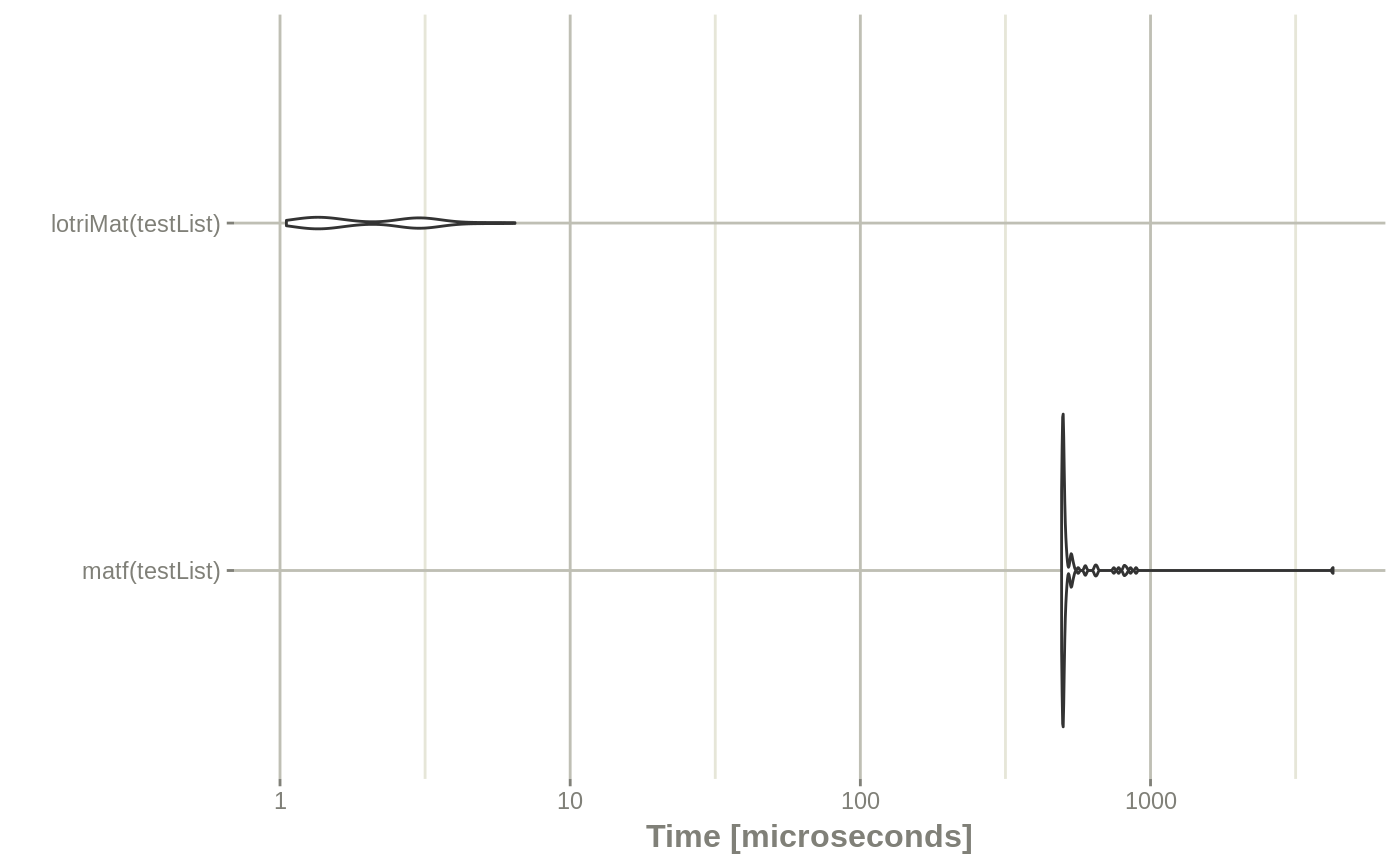
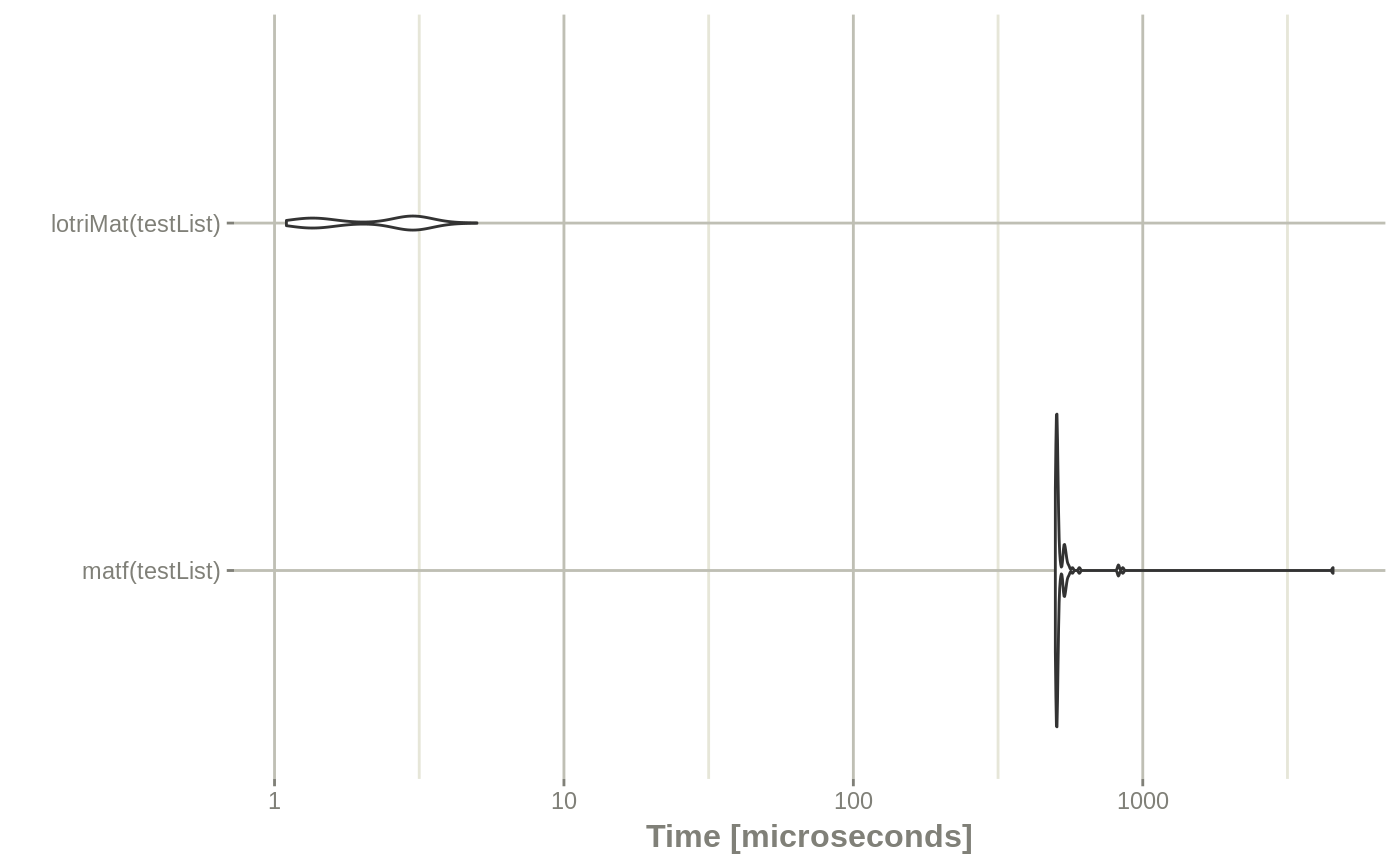
Update pkgdown website

diff --git a/docs/reference/lotriSep.html b/docs/reference/lotriSep.html
@@ -1,0 +1,244 @@
+<!-- Generated by pkgdown: do not edit by hand -->
+<!DOCTYPE html>
+<html lang="en">
+  <head>
+  <meta charset="utf-8">
+<meta http-equiv="X-UA-Compatible" content="IE=edge">
+<meta name="viewport" content="width=device-width, initial-scale=1.0">
+
+<title>Separate a lotri matrix into above and below lotri matrices — lotriSep • lotri</title>
+
+
+<!-- jquery -->
+<script src="https://cdnjs.cloudflare.com/ajax/libs/jquery/3.4.1/jquery.min.js" integrity="sha256-CSXorXvZcTkaix6Yvo6HppcZGetbYMGWSFlBw8HfCJo=" crossorigin="anonymous"></script>
+<!-- Bootstrap -->
+
+<link rel="stylesheet" href="https://cdnjs.cloudflare.com/ajax/libs/twitter-bootstrap/3.4.1/css/bootstrap.min.css" integrity="sha256-bZLfwXAP04zRMK2BjiO8iu9pf4FbLqX6zitd+tIvLhE=" crossorigin="anonymous" />
+
+<script src="https://cdnjs.cloudflare.com/ajax/libs/twitter-bootstrap/3.4.1/js/bootstrap.min.js" integrity="sha256-nuL8/2cJ5NDSSwnKD8VqreErSWHtnEP9E7AySL+1ev4=" crossorigin="anonymous"></script>
+
+<!-- bootstrap-toc -->
+<link rel="stylesheet" href="../bootstrap-toc.css">
+<script src="../bootstrap-toc.js"></script>
+
+<!-- Font Awesome icons -->
+<link rel="stylesheet" href="https://cdnjs.cloudflare.com/ajax/libs/font-awesome/5.12.1/css/all.min.css" integrity="sha256-mmgLkCYLUQbXn0B1SRqzHar6dCnv9oZFPEC1g1cwlkk=" crossorigin="anonymous" />
+<link rel="stylesheet" href="https://cdnjs.cloudflare.com/ajax/libs/font-awesome/5.12.1/css/v4-shims.min.css" integrity="sha256-wZjR52fzng1pJHwx4aV2AO3yyTOXrcDW7jBpJtTwVxw=" crossorigin="anonymous" />
+
+<!-- clipboard.js -->
+<script src="https://cdnjs.cloudflare.com/ajax/libs/clipboard.js/2.0.6/clipboard.min.js" integrity="sha256-inc5kl9MA1hkeYUt+EC3BhlIgyp/2jDIyBLS6k3UxPI=" crossorigin="anonymous"></script>
+
+<!-- headroom.js -->
+<script src="https://cdnjs.cloudflare.com/ajax/libs/headroom/0.11.0/headroom.min.js" integrity="sha256-AsUX4SJE1+yuDu5+mAVzJbuYNPHj/WroHuZ8Ir/CkE0=" crossorigin="anonymous"></script>
+<script src="https://cdnjs.cloudflare.com/ajax/libs/headroom/0.11.0/jQuery.headroom.min.js" integrity="sha256-ZX/yNShbjqsohH1k95liqY9Gd8uOiE1S4vZc+9KQ1K4=" crossorigin="anonymous"></script>
+
+<!-- pkgdown -->
+<link href="../pkgdown.css" rel="stylesheet">
+<script src="../pkgdown.js"></script>
+
+
+
+
+<meta property="og:title" content="Separate a lotri matrix into above and below lotri matrices — lotriSep" />
+<meta property="og:description" content="This is used for creating nesting simulations in `RxODE` and may
+not be useful for external function calls." />
+
+
+
+
+<!-- mathjax -->
+<script src="https://cdnjs.cloudflare.com/ajax/libs/mathjax/2.7.5/MathJax.js" integrity="sha256-nvJJv9wWKEm88qvoQl9ekL2J+k/RWIsaSScxxlsrv8k=" crossorigin="anonymous"></script>
+<script src="https://cdnjs.cloudflare.com/ajax/libs/mathjax/2.7.5/config/TeX-AMS-MML_HTMLorMML.js" integrity="sha256-84DKXVJXs0/F8OTMzX4UR909+jtl4G7SPypPavF+GfA=" crossorigin="anonymous"></script>
+
+<!--[if lt IE 9]>
+<script src="https://oss.maxcdn.com/html5shiv/3.7.3/html5shiv.min.js"></script>
+<script src="https://oss.maxcdn.com/respond/1.4.2/respond.min.js"></script>
+<![endif]-->
+
+
+
+  </head>
+
+  <body data-spy="scroll" data-target="#toc">
+    <div class="container template-reference-topic">
+      <header>
+      <div class="navbar navbar-default navbar-fixed-top" role="navigation">
+  <div class="container">
+    <div class="navbar-header">
+      <button type="button" class="navbar-toggle collapsed" data-toggle="collapse" data-target="#navbar" aria-expanded="false">
+        <span class="sr-only">Toggle navigation</span>
+        <span class="icon-bar"></span>
+        <span class="icon-bar"></span>
+        <span class="icon-bar"></span>
+      </button>
+      <span class="navbar-brand">
+        <a class="navbar-link" href="../index.html">lotri</a>
+        <span class="version label label-default" data-toggle="tooltip" data-placement="bottom" title="Released version">0.2.2</span>
+      </span>
+    </div>
+
+    <div id="navbar" class="navbar-collapse collapse">
+      <ul class="nav navbar-nav">
+        <li>
+  <a href="../index.html">
+    <span class="fas fa fas fa-home fa-lg"></span>
+     
+  </a>
+</li>
+<li>
+  <a href="../reference/index.html">Reference</a>
+</li>
+<li class="dropdown">
+  <a href="#" class="dropdown-toggle" data-toggle="dropdown" role="button" aria-expanded="false">
+    Articles
+     
+    <span class="caret"></span>
+  </a>
+  <ul class="dropdown-menu" role="menu">
+    <li>
+      <a href="../articles/lotri-motivation.html">Lotri Motivation</a>
+    </li>
+  </ul>
+</li>
+<li>
+  <a href="../news/index.html">Changelog</a>
+</li>
+      </ul>
+      <ul class="nav navbar-nav navbar-right">
+        <li>
+  <a href="https://github.com/nlmixrdevelopment/lotri/">
+    <span class="fab fa fab fa-github fa-lg"></span>
+     
+  </a>
+</li>
+      </ul>
+      
+    </div><!--/.nav-collapse -->
+  </div><!--/.container -->
+</div><!--/.navbar -->
+
+      
+
+      </header>
+
+<div class="row">
+  <div class="col-md-9 contents">
+    <div class="page-header">
+    <h1>Separate a lotri matrix into above and below lotri matrices</h1>
+    <small class="dont-index">Source: <a href='https://github.com/nlmixrdevelopment/lotri/blob/master/R/lotri.R'><code>R/lotri.R</code></a></small>
+    <div class="hidden name"><code>lotriSep.Rd</code></div>
+    </div>
+
+    <div class="ref-description">
+    <p>This is used for creating nesting simulations in `RxODE` and may
+not be useful for external function calls.</p>
+    </div>
+
+    <pre class="usage"><span class='fu'>lotriSep</span>(<span class='no'>x</span>, <span class='no'>above</span>, <span class='no'>below</span>, <span class='kw'>aboveStart</span> <span class='kw'>=</span> <span class='fl'>1L</span>, <span class='kw'>belowStart</span> <span class='kw'>=</span> <span class='fl'>1L</span>)</pre>
+
+    <h2 class="hasAnchor" id="arguments"><a class="anchor" href="#arguments"></a>Arguments</h2>
+    <table class="ref-arguments">
+    <colgroup><col class="name" /><col class="desc" /></colgroup>
+    <tr>
+      <th>x</th>
+      <td><p>lotri matrix</p></td>
+    </tr>
+    <tr>
+      <th>above</th>
+      <td><p>Named integer vector listing variability above the id
+level.  Each element lists the number of population differences
+in the whole data-set (as integer)</p></td>
+    </tr>
+    <tr>
+      <th>below</th>
+      <td><p>Named integer vector listing variability below the id
+level.  Each element lists the number of items below the
+individual level.  For example with 3 occasions per indivdiual
+you could use 'c(occ=3L)'</p></td>
+    </tr>
+    <tr>
+      <th>aboveStart</th>
+      <td><p>Add the attribute of where THETA[#] will be added</p></td>
+    </tr>
+    <tr>
+      <th>belowStart</th>
+      <td><p>Add the attribute of where ETA[#] will be added</p></td>
+    </tr>
+    </table>
+
+    <h2 class="hasAnchor" id="value"><a class="anchor" href="#value"></a>Value</h2>
+
+    <p>List of two lotri matrices</p>
+
+    <h2 class="hasAnchor" id="examples"><a class="anchor" href="#examples"></a>Examples</h2>
+    <pre class="examples"><div class='input'><span class='no'>omega</span> <span class='kw'>&lt;-</span> <span class='fu'><a href='lotri.html'>lotri</a></span>(<span class='fu'><a href='lotri.html'>lotri</a></span>(<span class='no'>eta.Cl</span> ~ <span class='fl'>0.1</span>,
+                        <span class='no'>eta.Ka</span> ~ <span class='fl'>0.1</span>) <span class='kw'>|</span> <span class='fu'>id</span>(<span class='kw'>nu</span><span class='kw'>=</span><span class='fl'>100</span>),
+                  <span class='fu'><a href='lotri.html'>lotri</a></span>(<span class='no'>eye.Cl</span> ~ <span class='fl'>0.05</span>,
+                        <span class='no'>eye.Ka</span> ~ <span class='fl'>0.05</span>) <span class='kw'>|</span> <span class='fu'>eye</span>(<span class='kw'>nu</span><span class='kw'>=</span><span class='fl'>50</span>),
+                  <span class='fu'><a href='lotri.html'>lotri</a></span>(<span class='no'>iov.Cl</span> ~ <span class='fl'>0.01</span>,
+                        <span class='no'>iov.Ka</span> ~ <span class='fl'>0.01</span>) <span class='kw'>|</span> <span class='fu'>occ</span>(<span class='kw'>nu</span><span class='kw'>=</span><span class='fl'>200</span>),
+                  <span class='fu'><a href='lotri.html'>lotri</a></span>(<span class='no'>inv.Cl</span> ~ <span class='fl'>0.02</span>,
+                        <span class='no'>inv.Ka</span> ~ <span class='fl'>0.02</span>) <span class='kw'>|</span> <span class='fu'>inv</span>(<span class='kw'>nu</span><span class='kw'>=</span><span class='fl'>10</span>))
+
+<span class='fu'>lotriSep</span>(<span class='no'>omega</span>, <span class='kw'>above</span><span class='kw'>=</span><span class='fu'><a href='https://rdrr.io/r/base/c.html'>c</a></span>(<span class='kw'>inv</span><span class='kw'>=</span><span class='fl'>10L</span>), <span class='kw'>below</span><span class='kw'>=</span><span class='fu'><a href='https://rdrr.io/r/base/c.html'>c</a></span>(<span class='kw'>eye</span><span class='kw'>=</span><span class='fl'>2L</span>, <span class='kw'>occ</span><span class='kw'>=</span><span class='fl'>4L</span>))</div><div class='output co'>#&gt; $above
+#&gt; $inv
+#&gt;        inv.Cl inv.Ka
+#&gt; inv.Cl   0.02   0.00
+#&gt; inv.Ka   0.00   0.02
+#&gt; 
+#&gt; attr(,"format")
+#&gt; [1] "THETA[%d]"
+#&gt; attr(,"start")
+#&gt; [1] 1
+#&gt; Properties: nu, same 
+#&gt; 
+#&gt; $below
+#&gt; $id
+#&gt;        eta.Cl eta.Ka
+#&gt; eta.Cl    0.1    0.0
+#&gt; eta.Ka    0.0    0.1
+#&gt; 
+#&gt; $eye
+#&gt;        eye.Cl eye.Ka
+#&gt; eye.Cl   0.05   0.00
+#&gt; eye.Ka   0.00   0.05
+#&gt; 
+#&gt; $occ
+#&gt;        iov.Cl iov.Ka
+#&gt; iov.Cl   0.01   0.00
+#&gt; iov.Ka   0.00   0.01
+#&gt; 
+#&gt; attr(,"format")
+#&gt; [1] "ETA[%d]"
+#&gt; attr(,"start")
+#&gt; [1] 1
+#&gt; Properties: nu, same 
+#&gt; </div></pre>
+  </div>
+  <div class="col-md-3 hidden-xs hidden-sm" id="pkgdown-sidebar">
+    <nav id="toc" data-toggle="toc" class="sticky-top">
+      <h2 data-toc-skip>Contents</h2>
+    </nav>
+  </div>
+</div>
+
+
+      <footer>
+      <div class="copyright">
+  <p>Developed by Matthew L. Fidler.</p>
+</div>
+
+<div class="pkgdown">
+  <p>Site built with <a href="https://pkgdown.r-lib.org/">pkgdown</a> 1.5.1.</p>
+</div>
+
+      </footer>
+   </div>
+
+  
+
+
+  </body>
+</html>
+
+

diff --git a/docs/articles/lotri-motivation.html b/docs/articles/lotri-motivation.html
@@ -85,7 +85,7 @@
       <h1 data-toc-skip>Lotri Motivation</h1>
                         <h4 class="author">Matthew Fidler</h4>
             
-            <h4 class="date">2020-04-17</h4>
+            <h4 class="date">2020-04-18</h4>
       
       <small class="dont-index">Source: <a href="https://github.com/nlmixrdevelopment/lotri/blob/master/vignettes/lotri-motivation.Rmd"><code>vignettes/lotri-motivation.Rmd</code></a></small>
       <div class="hidden name"><code>lotri-motivation.Rmd</code></div>
@@ -230,8 +230,8 @@
 <span class="fu"><a href="https://rdrr.io/r/base/print.html">print</a></span>(<span class="no">mb</span>)
 <span class="co">#&gt; Unit: microseconds</span>
 <span class="co">#&gt;                expr     min      lq      mean   median       uq      max neval</span>
-<span class="co">#&gt;      matf(testList) 493.756 498.481 570.41727 500.5945 512.7865 4256.218   100</span>
-<span class="co">#&gt;  lotriMat(testList)   1.052   1.338   2.26031   1.6305   2.9980    6.451   100</span>
+<span class="co">#&gt;      matf(testList) 498.790 502.944 562.79972 505.9820 516.4825 4544.564   100</span>
+<span class="co">#&gt;  lotriMat(testList)   1.099   1.371   2.30277   2.8145   3.0300    5.004   100</span>
 <span class="fu"><a href="https://ggplot2.tidyverse.org/reference/autoplot.html">autoplot</a></span>(<span class="no">mb</span>) + <span class="fu"><a href="https://nlmixrdevelopment.github.io/RxODE/reference/rxTheme.html">rxTheme</a></span>()
 <span class="co">#&gt; Coordinate system already present. Adding new coordinate system, which will replace the existing one.</span></pre></body></html></div>
 <p><img src="lotri-motivation_files/figure-html/unnamed-chunk-7-1.png" width="700"></p>

diff --git a/docs/reference/index.html b/docs/reference/index.html
@@ -163,6 +163,12 @@
           <p><code><a href="lotriMat.html">lotriMat()</a></code> </p>
         </td>
         <td><p>Create a matrix from a list of matrices</p></td>
+      </tr><tr>
+        
+        <td>
+          <p><code><a href="lotriSep.html">lotriSep()</a></code> </p>
+        </td>
+        <td><p>Separate a lotri matrix into above and below lotri matrices</p></td>
       </tr>
     </tbody>
     </table>
